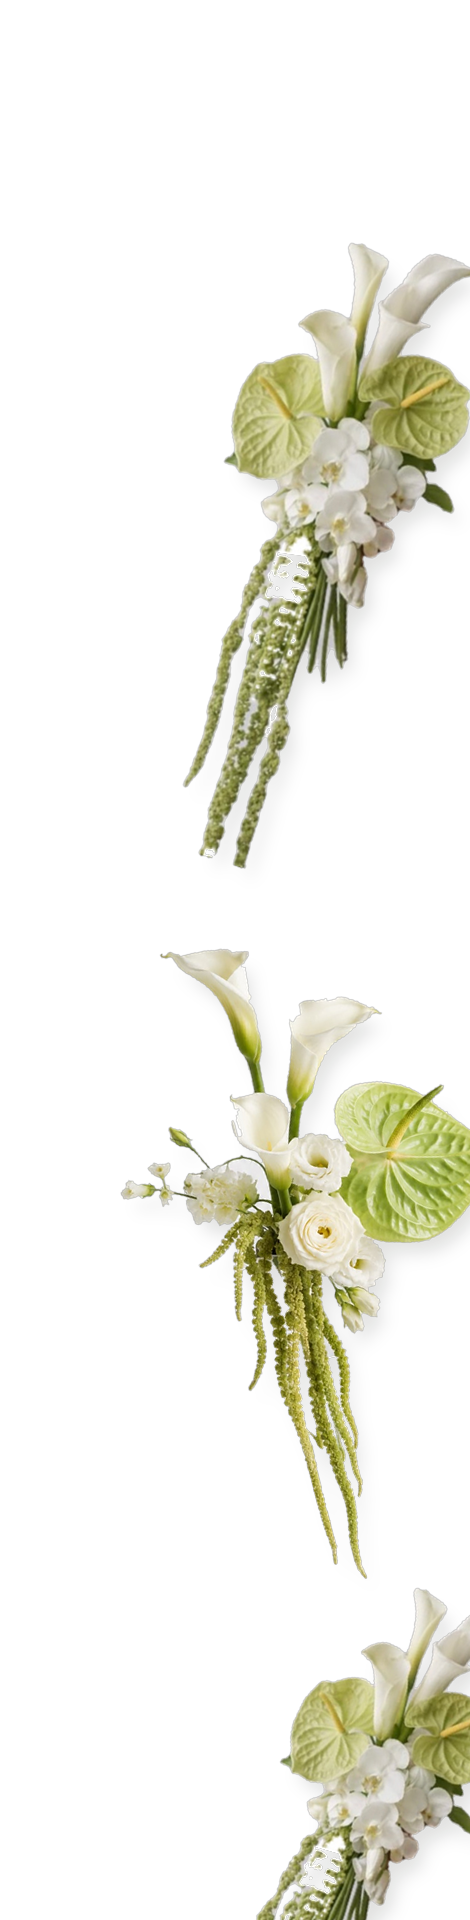
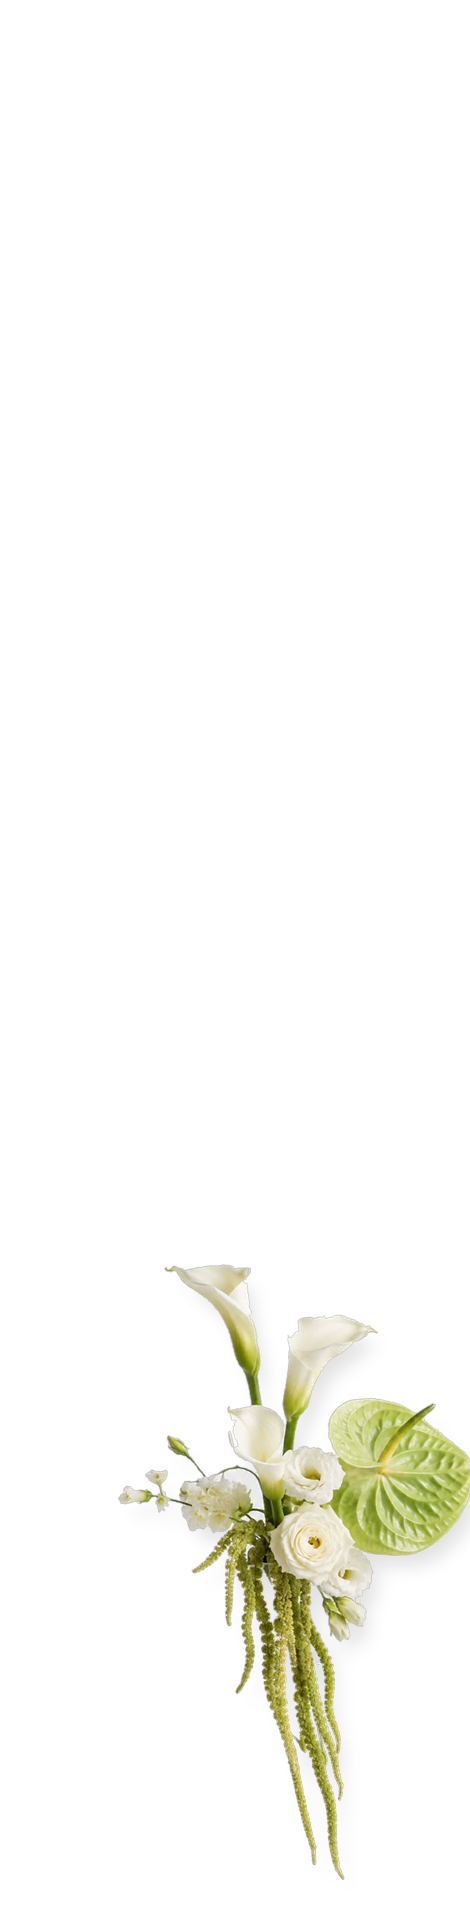
XV: menos flores (un ramo por lado en la portada; sin ramos en tarjetas de lugar, confirmación y cierre)
Claude-Session: https://claude.ai/code/session_0153kB2WikYqrVRW9fW3cgko

Changed region(s): [[0.2681, 0.125, 1.0, 1.0]]

diff --git a/invitaciones/xv-valentina/index.html b/invitaciones/xv-valentina/index.html
@@ -721,7 +721,7 @@ const CONFIG = window.CONFIG;   // los datos viven en config.js
     const historia = E.historia && E.historia.length ? E.historia : [E.mensaje];
     const place = c => `<div class="scal place rv tilt"><div class="in">
         <h3>${esc(c.titulo)}</h3><div class="t">Hora: ${esc(c.hora)}</div><div class="l">${esc(c.lugar)}</div><div class="a">${esc(c.direccion)}</div>
-        <a class="btn-o" href="${esc(c.mapa)}" target="_blank" rel="noopener">Ver mapa</a></div>${bouquet("r", false)}</div>`;
+        <a class="btn-o" href="${esc(c.mapa)}" target="_blank" rel="noopener">Ver mapa</a></div></div>`;
     const foto = i => esc(CONFIG.fotos[i] || CONFIG.fotos[0] || "");
     $("#stage").style.setProperty("--papel", `url("${A}papel_olivo.jpg")`);
     const heartCard = (() => {
@@ -816,7 +816,7 @@ const CONFIG = window.CONFIG;   // los datos viven en config.js
           <div class="cd slide"><strong>Confirma tu<br>asistencia</strong><button class="btn-o" type="button" id="goRsvp">Responder</button></div>
           <div class="fr"></div>${heart()}${bouquet("r")}
         </div>
-        <div class="scal greenp rsvp-intro rv"><div class="in">Acompáñame a celebrar uno de los días más especiales de mi vida.<br>Por favor confirma antes del ${esc(E.rsvpFecha)}.</div>${bouquet("r", false)}</div>
+        <div class="scal greenp rsvp-intro rv"><div class="in">Acompáñame a celebrar uno de los días más especiales de mi vida.<br>Por favor confirma antes del ${esc(E.rsvpFecha)}.</div></div>
         <form class="rsvp rv" id="rsvp" autocomplete="on">
           <label class="q" for="rsvpNombre">Tu nombre completo*</label>
           <input type="text" id="rsvpNombre" name="nombre" required maxlength="80">
@@ -832,7 +832,6 @@ const CONFIG = window.CONFIG;   // los datos viven en config.js
       </section>
 
       <section class="closing2">
-        <img class="c2-ramo l" src="${A}ramo_alcatraz.png" alt=""><img class="c2-ramo r" src="${A}ramo_alcatraz.png" alt="">
         <svg class="c2-mono rv" data-draw viewBox="40 10 120 120" aria-hidden="true">
           <path d="M66 46 C 73 43, 78 36, 80 26 C 84 34, 87 38, 91 36 C 93 28, 97 20, 100 12 C 103 20, 107 28, 109 36 C 113 38, 116 34, 120 26 C 122 36, 127 43, 134 46 C 122 43, 111 42, 100 42 C 89 42, 78 43, 66 46 Z"/>
           <path d="M100 19 C 97 23, 97 27, 100 30 C 103 27, 103 23, 100 19 M70 49 C 86 45.5, 114 45.5, 130 49"/>

diff --git a/plantillas/xv/index.html b/plantillas/xv/index.html
@@ -721,7 +721,7 @@ const CONFIG = window.CONFIG;   // los datos viven en config.js
     const historia = E.historia && E.historia.length ? E.historia : [E.mensaje];
     const place = c => `<div class="scal place rv tilt"><div class="in">
         <h3>${esc(c.titulo)}</h3><div class="t">Hora: ${esc(c.hora)}</div><div class="l">${esc(c.lugar)}</div><div class="a">${esc(c.direccion)}</div>
-        <a class="btn-o" href="${esc(c.mapa)}" target="_blank" rel="noopener">Ver mapa</a></div>${bouquet("r", false)}</div>`;
+        <a class="btn-o" href="${esc(c.mapa)}" target="_blank" rel="noopener">Ver mapa</a></div></div>`;
     const foto = i => esc(CONFIG.fotos[i] || CONFIG.fotos[0] || "");
     $("#stage").style.setProperty("--papel", `url("${A}papel_olivo.jpg")`);
     const heartCard = (() => {
@@ -816,7 +816,7 @@ const CONFIG = window.CONFIG;   // los datos viven en config.js
           <div class="cd slide"><strong>Confirma tu<br>asistencia</strong><button class="btn-o" type="button" id="goRsvp">Responder</button></div>
           <div class="fr"></div>${heart()}${bouquet("r")}
         </div>
-        <div class="scal greenp rsvp-intro rv"><div class="in">Acompáñame a celebrar uno de los días más especiales de mi vida.<br>Por favor confirma antes del ${esc(E.rsvpFecha)}.</div>${bouquet("r", false)}</div>
+        <div class="scal greenp rsvp-intro rv"><div class="in">Acompáñame a celebrar uno de los días más especiales de mi vida.<br>Por favor confirma antes del ${esc(E.rsvpFecha)}.</div></div>
         <form class="rsvp rv" id="rsvp" autocomplete="on">
           <label class="q" for="rsvpNombre">Tu nombre completo*</label>
           <input type="text" id="rsvpNombre" name="nombre" required maxlength="80">
@@ -832,7 +832,6 @@ const CONFIG = window.CONFIG;   // los datos viven en config.js
       </section>
 
       <section class="closing2">
-        <img class="c2-ramo l" src="${A}ramo_alcatraz.png" alt=""><img class="c2-ramo r" src="${A}ramo_alcatraz.png" alt="">
         <svg class="c2-mono rv" data-draw viewBox="40 10 120 120" aria-hidden="true">
           <path d="M66 46 C 73 43, 78 36, 80 26 C 84 34, 87 38, 91 36 C 93 28, 97 20, 100 12 C 103 20, 107 28, 109 36 C 113 38, 116 34, 120 26 C 122 36, 127 43, 134 46 C 122 43, 111 42, 100 42 C 89 42, 78 43, 66 46 Z"/>
           <path d="M100 19 C 97 23, 97 27, 100 30 C 103 27, 103 23, 100 19 M70 49 C 86 45.5, 114 45.5, 130 49"/>
